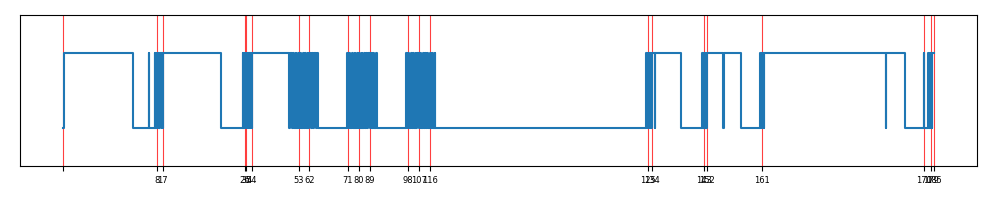
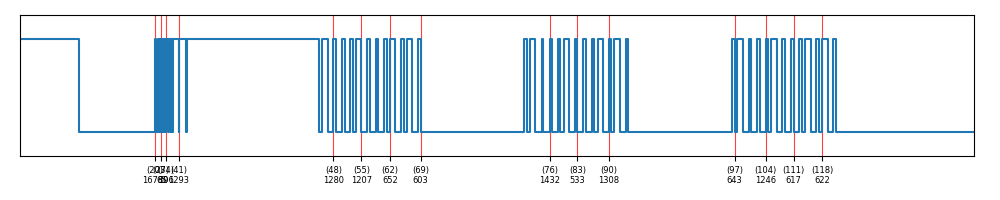
now on ticks we seen position and pulse length
Modified the tick to hold
- the pulse position (first line, in brakets)
- the pulse length (second line)

Updated the example to reflect the modifications

Changed region(s): [[0.031, 0.09, 0.992, 0.93], [0.899, 0.87, 0.961, 0.93], [0.0, 0.18, 0.093, 0.21]]

diff --git a/fzsubtk.py b/fzsubtk.py
@@ -14,7 +14,6 @@ class fzsubtk():
     select_to    = 0
     grid_step    = 0
     timing_as_ticks = False
-    timing_num_as_ticks = False
     keep_all_ticks = False
 
     _sub_data = []
@@ -23,8 +22,7 @@ class fzsubtk():
     _xx=[0]
     _yy=[0]
     _tt=[0]
-    _tl1=['']
-    _tl2=['']
+    _tl=['']
 
     # === Load .sub file
     def LoadSubFile(self, filename):
@@ -79,8 +77,8 @@ class fzsubtk():
                 #print("cnt:{:6} - val:{:6} - x:{:6}".format(cnt, val, x))
                 self._xx.append(x)
                 self._tt.append(x)
-                self._tl1.append(cnt)
-                self._tl2.append(abs(val))
+                #self._tl.append(cnt)
+                self._tl.append("({})\n{}".format(cnt, abs(val)))
                 if val > 0:
                     self._yy.append(1)
                 else:
@@ -93,14 +91,13 @@ class fzsubtk():
 
         # Keep only some of the ticks (i do not like this, TODO: rewrite)
         if not self.keep_all_ticks:
-            tick_step = int(len(self._tl1) / 25)
+            tick_step = int(len(self._tl) / 25)
             if tick_step == 0:
                 tick_step = 1
-            for cnt, val in reversed(list(enumerate(self._tl1[:-1]))):
+            for cnt, val in reversed(list(enumerate(self._tl[:-1]))):
                 if (cnt % tick_step) != 0:
                     del self._tt[cnt]
-                    del self._tl1[cnt]
-                    del self._tl2[cnt]
+                    del self._tl[cnt]
 
         # Plot
         fig = plt.figure()
@@ -120,11 +117,7 @@ class fzsubtk():
         # Use timing as ticks
         if self.timing_as_ticks:
             ax.set_xticks(self._tt)
-            ax.set_xticklabels(self._tl2)
-        # Use timing num as ticks
-        if self.timing_num_as_ticks:
-            ax.set_xticks(self._tt)
-            ax.set_xticklabels(self._tl1)
+            ax.set_xticklabels(self._tl)
 
         # Some plt config
         plt.tight_layout()
@@ -178,12 +171,6 @@ if __name__ == '__main__':
         default=False,
         help="use timing for x axis ticks")
 
-    parser.add_argument('-n', '--timing-num-as-ticks',
-        required=False,
-        action='store_true',
-        default=False,
-        help="use timing number for x axis ticks")
-
     parser.add_argument('-k', '--keep-all-ticks',
         required=False,
         action='store_true',
@@ -218,7 +205,6 @@ if __name__ == '__main__':
     subtk.select_to = args.select_to
     subtk.grid_step = args.grid_step
     subtk.timing_as_ticks = args.timing_as_ticks
-    subtk.timing_num_as_ticks = args.timing_num_as_ticks
     subtk.keep_all_ticks = args.keep_all_ticks
     subtk.output = args.output
 

diff --git a/docs/fzsubtk_example.md b/docs/fzsubtk_example.md
@@ -8,19 +8,17 @@ Do a first plot just to see what we have captured with: `python3 fzsubtk.py --su
 
 When plotting you get some info in the shell, one of this can be usefull: `Total time` it's the total duration of the selected plotted piece.
 
-The plot is interesting, I want to see better one of the 3 big blue rectangles... let's add the option `--timing-num-as-ticks` to see the timing position inside the .sub file, so we can select what we need to plot: `python3 fzsubtk.py --subfile=RAW_1.sub --timing-num-as-ticks`
+The plot is interesting, I want to see better one of the 3 big blue rectangles... let's add the option `--timing-num-as-ticks` to see the timing position inside the .sub file, so we can select what we need to plot: `python3 fzsubtk.py --subfile=RAW_1.sub --timing-as-ticks`
 
 ![fzsubtk_02.png](fzsubtk_02.png)
 
-ok, the interesting data is from timing 71 to 95 *(I made a few attempt to find the good range, try plotting different range a see the result)*, so let's plot only that range with: `python3 fzsubtk.py --subfile=RAW_1.sub --timing-num-as-ticks --select-from=71 --select-to=95`
+ok, the interesting data is from timing 71 to 95 *(with a little zooming I can see the tick numbers, those in brakets indicates the position)*, so let's plot only that range with: `python3 fzsubtk.py --subfile=RAW_1.sub --timing-as-ticks --select-from=71 --select-to=95`
 
 ![fzsubtk_03.png](fzsubtk_03.png)
 
-Wow data seems interesting but now I want to see the timing of each pulse, so let's change one of the params: `python3 fzsubtk.py --subfile=RAW_1.sub --timing-as-ticks --select-from=71 --select-to=95`
+Wow data seems interesting, I can use the timing of each pulse (those tick numbers on the second line) to make a beeter analysis to understand the protocol.
 
-![fzsubtk_04.png](fzsubtk_04.png)
 
-With timing on the bar I can make some better analysis trying to understand the protocol.
 
 The last feature I needed was the ability to use a fixed grid so let's try it: `python3 fzsubtk.py --subfile=RAW_1.sub --select-from=71 --select-to=95 --grid-step=579`
 
@@ -42,7 +40,7 @@ As you can see now the grid is almost perfect and the data bits are clearly read
 
 One last word... 
 
-With fzsubtk.py you can also cut part of the .sub file and create a new .sub file with the cutted part. It may be usefull to isolate some part af the same part to make comparision or to run only part of it with your Flipperzero.
+With fzsubtk.py you can also cut part of the .sub file and create a new .sub file with the cutted part. It may be usefull to isolate some part af the same file to make comparision or to run only part of it with your Flipperzero.
 
 To **cut** a .sub file you need only to select the range and the name of the output:
 
